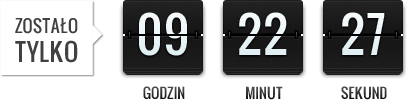
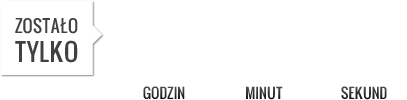
footer

diff --git a/jquery.countdown.js b/jquery.countdown.js
@@ -1,0 +1,276 @@
+/*
+ * jquery-countdown plugin - v0.2
+ *
+ * Copyright (c) 2009 Martin Conte Mac Donell <Reflejo@gmail.com>
+ * Copyright (c) 2011 Peter Farmer <pfarmer@gmail.com>
+ *
+ * Dual licensed under the MIT and GPL licenses.
+ * http://docs.jquery.com/License
+ */
+
+/*global window, setTimeout, setInterval, clearInterval */
+/*global $, jQuery */
+(function ($) {
+  function init(userOptions) {
+    var options = {
+      stepTime: 60,
+      format: "dd:hh:mm:ss",
+      startTime: "01:12:32:55",
+      digitImages: 6,
+      digitWidth: 53,
+      digitHeight: 77,
+      autoStart: true,
+      timerEnd: function () {},
+      image: "digits.png"
+    };
+    var digits = [],
+      interval;
+
+    // Draw digits in given container
+    function createDigits(where) {
+      var c = 0,
+        hCounter = 0,
+        mCounter = 0,
+        sCounter = 0,
+        cCounter,
+        i,
+        _startTime,
+        elem;
+
+      // Check the incoming startTime
+      // console.log("options.startTime = " + options.startTime);
+
+      if ((typeof options.startTime == 'object') && (options.startTime.constructor == Date)) {
+        // console.log("Have been passed a date object? hopefully?");
+        var now = new Date();
+        if (options.startTime.getTime() < now.getTime()) {
+          options.startTime.setFullYear(options.startTime.getFullYear() + 1);
+          // console.log("options.startTime is now = " + options.startTime);
+        }
+        // console.log("options.startTime.getTime() = " + options.startTime.getTime());
+        // console.log("now.getTime() = " + now.getTime());
+        var datediff = Math.ceil((options.startTime.getTime() - now.getTime()) / 1000);
+        // console.log("datediff = " + datediff);
+        var days = Math.floor(datediff / 86400);
+        // console.log("days = " + days);
+        var hours = Math.floor((datediff % 86400) / 3600);
+        var minutes = Math.floor(((datediff % 86400) % 3600) / 60);
+        var seconds = ((datediff % 86400) % 3600) % 60;
+        options.startTime = days + ":" + hours + ":" + minutes + ":" + seconds;
+      }
+
+      _startTime = options.startTime.split("");
+      // Count the number of ":" in the startTime.
+      cCounter = 0;
+      for (i = 0; i < _startTime.length; i++) {
+        if (isNaN(parseInt(_startTime[i]))) {
+          // console.log("cCounter++ (" + _startTime[i] + ")");
+          cCounter = cCounter + 1;
+        }
+      }
+
+      // Zero pad each section of the startTime if required.
+      // console.log("options.startTime = " + options.startTime)
+      var chunks = options.startTime.split(":");
+      // console.log("chunks.length = " + chunks.length);
+      var newstartTime = "";
+      for (i = 0; i < chunks.length; i++) {
+        var max = 59;
+        if (chunks.length == 3) {
+          if (i === 0) {
+            max = 23;
+          }
+        }
+        if (chunks.length == 4) {
+          if (i === 0) {
+            max = 9999;
+          }
+          if (i === 1) {
+            max = 23;
+          }
+        }
+
+        if (chunks[i] > max) {
+          chunks[i] = max;
+        }
+        if (chunks[i].length < 2) {
+          chunks[i] = "0" + chunks[i];
+        }
+      }
+
+      options.startTime = chunks.join(":");
+      // console.log("options.startTime = " + options.startTime)
+
+      // Calculate what the format should be:
+      switch (cCounter) {
+      case 3:
+        // console.log("options.startTime.split(':', 1).length is " + options.startTime.split(":")[0].length);
+        if (options.startTime.split(":")[0].length == 3) {
+          options.format = "ddd:hh:mm:ss";
+        } else {
+          options.format = "dd:hh:mm:ss";
+        }
+        break;
+      case 2:
+        options.format = "hh:mm:ss";
+        break;
+      case 1:
+        options.format = "mm:ss";
+        break;
+      case 0:
+        options.format = "ss";
+        break;
+      }
+
+      // console.log("cCounter == " + cCounter);
+      // console.log("options.format == " + options.format);
+
+      // Iterate each startTime digit, if it is not a digit
+      // we'll assume that it's a separator
+      options.startTime = options.startTime.split("");
+      options.format = options.format.split("");
+      // console.log("options.startTime = " + options.startTime);
+      // console.log("options.startTime.length = " + options.startTime.length);
+      for (i = 0; i < options.startTime.length; i++) {
+        // console.log("options.startTime[" + i + "] = " + options.startTime[i]);
+        if (parseInt(options.startTime[i]) >= 0) {
+          // console.log("parseInt >= 0");
+          elem = jQuery('<div id="cnt_' + i + '" class="cntDigit" />').css({
+            height: options.digitHeight * options.digitImages * 10,
+            "float": 'left',
+            background: 'url(\'' + options.image + '\')',
+            width: options.digitWidth
+          });
+          // console.log("elem = " + elem);
+          digits.push(elem);
+          margin(c, -((parseInt(options.startTime[i]) * options.digitHeight *
+            options.digitImages)));
+          digits[c].__max = 9;
+          // Add max digits, for example, first digit of minutes (mm) has
+          // a max of 5. Conditional max is used when the left digit has reach
+          // the max. For example second "hours" digit has a conditional max of 4
+          // console.log("options.format[" + i + "] = " + options.format[i]);
+          switch (options.format[i]) {
+          case 'h':
+            if (hCounter < 1) {
+              // console.log("digits[c] = " + digits[c]);
+              digits[c].__max = 2;
+              // console.log("settings digits[" + c + "].__max = 2");
+              hCounter = 1;
+            } else {
+              digits[c].__condmax = 3;
+              // console.log("settings digits[" + c + "].__condmax = 3");
+            }
+            break;
+          case 'd':
+            digits[c].__max = 9;
+            break;
+          case 'm':
+            if (mCounter < 1) {
+              digits[c].__max = 5;
+              mCounter = 1;
+            } else {
+              digits[c].__condmax = 9;
+            }
+            break;
+          case 's':
+            if (sCounter < 1) {
+              digits[c].__max = 5;
+              sCounter = 1;
+            } else {
+              digits[c].__condmax = 9;
+            }
+            break;
+          }
+          ++c;
+        } else {
+          elem = jQuery('<div class="cntSeparator"/>').css({
+            "float": 'left'
+          }).text(options.startTime[i]);
+        }
+        where.append('<div>');
+        where.append(elem);
+        where.append('</div>');
+      }
+    }
+
+    // Set or get element margin
+    function margin(elem, val) {
+      if (val !== undefined)
+        return digits[elem].css({
+          'marginTop': val + 'px'
+        });
+
+      return parseInt(digits[elem].css('marginTop').replace('px', ''));
+    }
+
+    // Makes the movement. This is done by "digitImages" steps.
+    function moveStep(elem) {
+      var mtop;
+
+      // console.log("digits[elem] = " + digits[elem]);
+      digits[elem]._digitInitial = -(digits[elem].__max * options.digitHeight * options.digitImages);
+      return function _move() {
+        mtop = margin(elem) + options.digitHeight;
+        if (mtop == options.digitHeight) {
+          margin(elem, digits[elem]._digitInitial);
+          if (elem > 0) moveStep(elem - 1)();
+          else {
+            clearInterval(interval);
+            for (var i = 0; i < digits.length; i++) margin(i, 0);
+            options.timerEnd();
+            return;
+          }
+          if ((elem > 0) && (digits[elem].__condmax !== undefined) &&
+            (digits[elem - 1]._digitInitial == margin(elem - 1)))
+            margin(elem, -(digits[elem].__condmax * options.digitHeight * options.digitImages));
+          return;
+        }
+
+        margin(elem, mtop);
+        if (margin(elem) / options.digitHeight % options.digitImages !== 0)
+          setTimeout(_move, options.stepTime);
+
+        if (mtop === 0) digits[elem].__isma = true;
+      };
+    }
+
+    function start() {
+      if (interval === undefined)
+        interval = setInterval(moveStep(digits.length - 1), 1000);
+    }
+
+    function pause() {
+      if (interval) {
+        window.clearInterval(interval);
+        interval = undefined;
+      }
+    }
+
+    this.data("countdown", {
+      "start": start,
+      "pause": pause
+    });
+
+    $.extend(options, userOptions);
+    this.css({
+      height: options.digitHeight,
+      overflow: 'hidden'
+    });
+    createDigits(this);
+    if (options.autoStart) {
+      start();
+    }
+  }
+
+  $.fn.countdown = function (method) {
+    var methods = this.data("countdown");
+    if (methods && methods[method]) {
+      return methods[method].apply(this, Array.prototype.slice.call(arguments, 1));
+    } else if (typeof method === 'object' || !method) {
+      return init.apply(this, arguments);
+    } else {
+      $.error('Method ' + method + ' does not exist on jQuery.countdown');
+    }
+  };
+})(jQuery);

diff --git a/index.html b/index.html
@@ -14,6 +14,8 @@
     
     <link type="text/css" rel="stylesheet" href="style/reset.css">
     <link type="text/css" rel="stylesheet" href="style/style.css">
+    <link href="http://www.jqueryscript.net/css/jquerysctipttop.css" rel="stylesheet" type="text/css">
+
     
     <!-- <link rel="shortcut icon" href="images/favicon.ico" type="image/x-icon"/> -->
     
@@ -37,7 +39,12 @@
                     <p>Lorem Ipsum is simply dummy text of the</p>
                     <p>As been the industry standard dummy text</p>
                 </div>
-                <img class="counter" src="img/odliczanie.png" alt="counter">
+                
+                <div class="counter">
+
+                    <img class="counter" src="img/odliczanie.png" alt="counter"><div id="counter_2"></div>
+            
+                </div>
             </div>
         </div>
     </header>
@@ -155,5 +162,24 @@
         </footer>
     
     <script src="scripts/script.js"></script>
+    <script src="http://ajax.googleapis.com/ajax/libs/jquery/1.10.2/jquery.min.js" type="text/javascript" charset="utf-8"></script>
+    <script src="jquery.countdown.js" type="text/javascript" charset="utf-8"></script>
+    
+            <script type="text/javascript">
+     $(function(){
+       $('#counter').countdown({
+         image: 'img/digits.png',
+         startTime: '01:12:12:00'
+       });
+ 
+       $('#counter_2').countdown({
+         image: 'img/digits.png',
+         startTime: '09:22:27',
+         timerEnd: function(){ alert('end!'); },
+         format: 'hh:mm:ss'
+       });
+     });
+   </script>
+    
 </body>
 </html>

diff --git a/style/style.css b/style/style.css
@@ -287,6 +287,7 @@ h1 {
     font-style: italic;
     color: #a6a5a5;
     letter-spacing: -0.00em;
+    font-size: 0.85em;
 }
 
 .footer__twitter a { 
